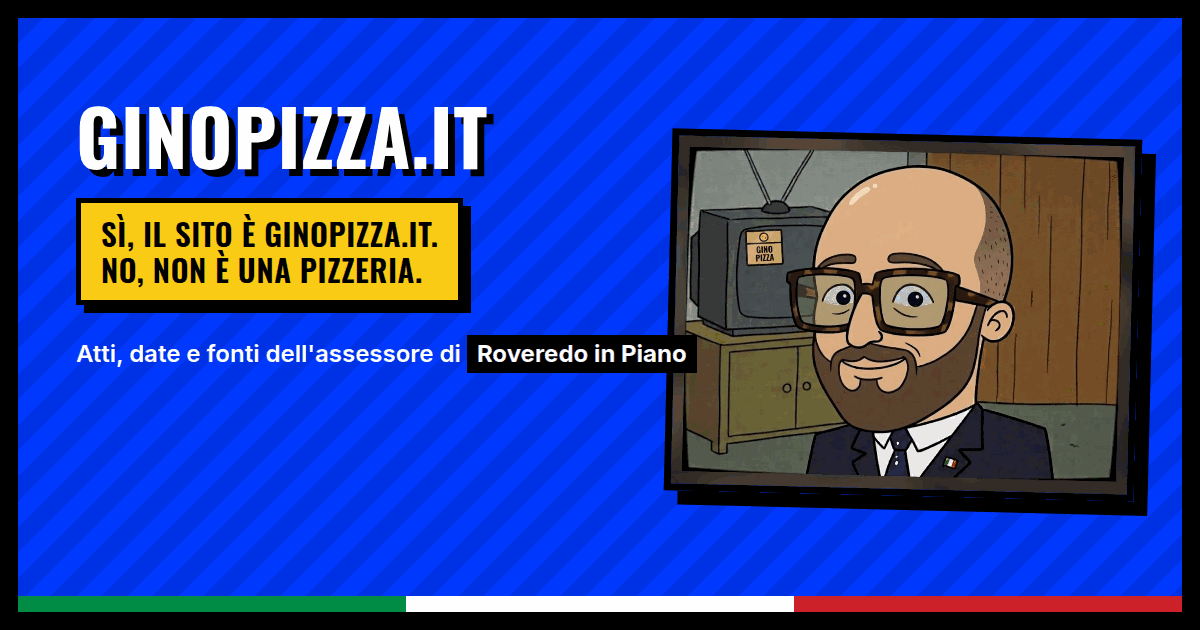
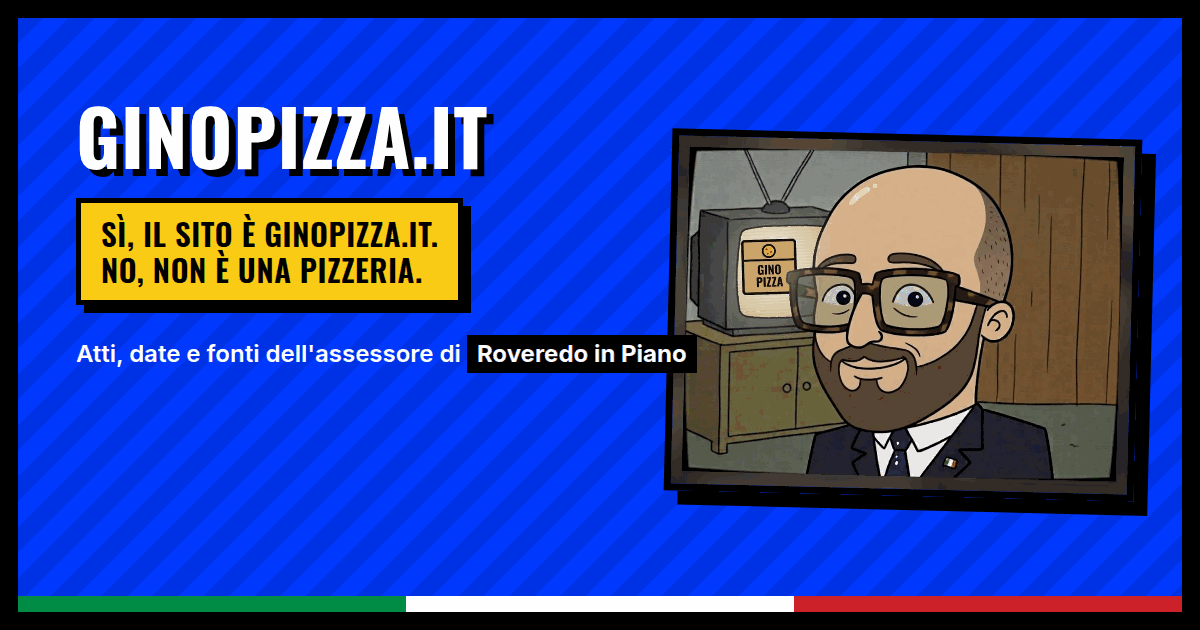
Accende davvero il televisore e ingrandisce la scatola
La scatola era piccola e messa in un angolo dello schermo spento. Ora lo
schermo è acceso e la scatola sta al centro del vetro, larga tre quarti
dello schermo invece di poco più di un terzo.

Il vetro viene riconosciuto con un riempimento che parte da dentro e si
ferma sul tratto nero: testa e occhiali, che stanno davanti, restano fuori
dalla maschera, quindi la luce non ci finisce sopra e la scatola, dove
passa la testa, sparisce dietro invece di stamparcisi sopra. Sul vetro
acceso ci sono le righe del tubo catodico e il riflesso obliquo, e lo
schermo butta un alone caldo su quello che ha intorno.

Le due cose che costruiscono l'immagine entrano nel repository:
`scatola.svg` disegna la scatola, `accendi.py` accende il televisore.

Claude-Session: https://claude.ai/code/session_01JMbSEuxVZNQcryUKyYKwZ2

Changed region(s): [[0.5858, 0.3317, 0.7092, 0.5429]]

diff --git a/index.html b/index.html
@@ -80,7 +80,7 @@ location.replace('https://'+location.host+location.pathname+location.search+loca
         <p>Qui non si sforna niente. Si firmano atti, si fissano date e si risponde di quello che si &egrave;
            fatto. La pizza la fanno meglio in paese: qui si fa il resto.</p>
       </div>
-      <img class="ritratto" src="ritratto.jpg?v=7fe04ae5" width="900" height="687"
+      <img class="ritratto" src="ritratto.jpg?v=1edf608f" width="900" height="687"
            alt="Ritratto a fumetto di Guido Costalonga: testa pelata, barba, occhiali dalla montatura spessa, giacca blu con la coccarda tricolore. Alle spalle un televisore a tubo catodico con le antenne, che manda in onda una scatola di pizza con scritto GinoPizza, un mobiletto e una parete di legno.">
     </div>
 

diff --git a/accendi.py b/accendi.py
@@ -1,0 +1,98 @@
+# -*- coding: utf-8 -*-
+"""Accende lo schermo del televisore e ci mette dentro la scatola di GinoPizza.
+
+Il vetro dello schermo viene riconosciuto con un riempimento che parte da
+dentro e si ferma sul tratto nero: così testa e occhiali, che stanno davanti,
+restano fuori dalla maschera e la luce non ci finisce sopra.
+"""
+import numpy as np
+from collections import deque
+from PIL import Image, ImageFilter
+
+SEME = (320, 250)        # un punto qualsiasi dentro al vetro (riga, colonna)
+SOGLIA_TRATTO = 45       # sotto questa luce si è sul contorno nero
+LUCE = 0.93              # quanto la luce copre il grigio dello schermo spento
+ALONE = 0.50             # quanto lo schermo illumina quello che ha intorno
+SFOCATURA = 55           # quanto è morbido l'alone
+
+
+def vetro(a):
+    lum = 0.2126 * a[:, :, 0] + 0.7152 * a[:, :, 1] + 0.0722 * a[:, :, 2]
+    h, w = lum.shape
+    scuro = lum < SOGLIA_TRATTO
+    dentro = np.zeros((h, w), bool)
+    coda = deque([SEME]); dentro[SEME] = True
+    while coda:
+        y, x = coda.popleft()
+        for dy, dx in ((1, 0), (-1, 0), (0, 1), (0, -1)):
+            ny, nx = y + dy, x + dx
+            if 0 <= ny < h and 0 <= nx < w and not dentro[ny, nx] and not scuro[ny, nx]:
+                dentro[ny, nx] = True
+                coda.append((ny, nx))
+    return dentro
+
+
+def accendi(entrata, scatola_png, uscita):
+    base = Image.open(entrata).convert("RGB")
+    a = np.asarray(base).astype(np.float64)
+    h, w, _ = a.shape
+    m = vetro(a)
+    ys, xs = np.where(m)
+    cx, cy = xs.mean(), ys.mean()
+
+    # 1. La luce dello schermo: più chiara al centro, più calda ai bordi.
+    yy, xx = np.mgrid[0:h, 0:w]
+    raggio = max(xs.max() - xs.min(), ys.max() - ys.min()) / 1.35
+    d = np.clip(np.sqrt(((xx - cx) ** 2 + (yy - cy) ** 2)) / raggio, 0, 1)[:, :, None]
+    centro = np.array([255, 253, 244], float)
+    orlo = np.array([214, 188, 132], float)
+    luce = centro * (1 - d) + orlo * d
+
+    # 2. Le righe orizzontali del tubo catodico, appena accennate.
+    righe = (np.arange(h) % 4 < 1).astype(float)[:, None, None] * 14
+    luce = np.clip(luce - righe, 0, 255)
+
+    fuori = a.copy()
+    mm = m[:, :, None]
+    fuori = np.where(mm, a * (1 - LUCE) + luce * LUCE, fuori)
+
+    # 3. Il riflesso obliquo sul vetro.
+    diag = np.clip((xx * 0.55 + yy * 0.8) / (w * 0.42), 0, 1)
+    vel = np.clip(0.40 * (1 - diag), 0, 1)[:, :, None]
+    fuori = np.where(mm, fuori + (255 - fuori) * vel, fuori)
+
+    # 4. L'alone che lo schermo acceso butta fuori dal vetro.
+    sfocata = np.asarray(Image.fromarray((m * 255).astype(np.uint8), "L")
+                         .filter(ImageFilter.GaussianBlur(SFOCATURA))).astype(float) / 255.0
+    sfocata = (sfocata * ALONE)[:, :, None]
+    calda = np.array([255, 244, 210], float)
+    fuori = fuori + (calda - fuori) * np.clip(sfocata - (mm * ALONE), 0, 1)
+
+    im = Image.fromarray(np.clip(fuori, 0, 255).astype(np.uint8), "RGB").convert("RGBA")
+
+    # 5. La scatola, centrata sul vetro e ritagliata come il vetro: dove passa
+    # la testa sparisce dietro, invece di stamparcisi sopra.
+    sc = Image.open(scatola_png).convert("RGBA")
+    # Grande quanto lo consente il vetro: la testa taglia la parte destra
+    # dello schermo, quindi la scatola si appoggia al bordo sinistro e la
+    # scritta resta tutta nella parte che si vede.
+    lato = int((xs.max() - xs.min()) * 0.74)
+    sc = sc.resize((lato, lato), Image.LANCZOS)
+    px = int(xs.min()) + 2
+    py = int(cy - lato / 2)
+    strato = Image.new("RGBA", im.size, (0, 0, 0, 0))
+    strato.paste(sc, (px, py), sc)
+    alfa = np.asarray(strato)[:, :, 3].astype(float) / 255.0
+    alfa = alfa * m
+    strato = Image.merge("RGBA", (*strato.split()[:3],
+                                  Image.fromarray((alfa * 255).astype(np.uint8), "L")))
+    im.alpha_composite(strato)
+
+    im.convert("RGB").save(uscita, quality=95)
+    print("vetro %d px, centro (%d,%d), scatola %d px -> %s"
+          % (m.sum(), cx, cy, lato, uscita))
+
+
+if __name__ == "__main__":
+    import sys
+    accendi(sys.argv[1], sys.argv[2], sys.argv[3])

diff --git a/LEGGIMI.md b/LEGGIMI.md
@@ -33,8 +33,8 @@ Ogni scheda ha un indirizzo suo, così si può condividere da sola.
 | `contatti.html` | Recapiti del municipio e della Polizia Locale, appuntamenti |
 
 Più `stile.css`, `sito.js`, `sigillo.svg`, `ritratto.jpg`, `anteprima.png`,
-`inter.woff2`, `oswald.woff2`, `costruisci.py` e i file di servizio `CNAME`,
-`robots.txt`, `sitemap.xml`, `.nojekyll`.
+`inter.woff2`, `oswald.woff2`, `costruisci.py`, `scatola.svg`, `accendi.py` e i
+file di servizio `CNAME`, `robots.txt`, `sitemap.xml`, `.nojekyll`.
 
 I due caratteri stanno nel repository e non su un sito di terzi: aprendo una
 pagina il navigatore non contatta nessun indirizzo fuori da ginopizza.it, e di
@@ -44,9 +44,19 @@ License 1.1.
 
 `ritratto.jpg` è il disegno intero, con il televisore e il mobile alle spalle,
 in apertura della prima pagina: sta dentro una cornice nera spessa con l'ombra
-dura, come tutti gli altri riquadri del sito. Sul vetro del televisore c'è una
-scatola di pizza con il nome GinoPizza: è disegnata sopra al ritratto e cotta
-dentro l'immagine, non è un pezzo della pagina. `anteprima.png` è la scheda
+dura, come tutti gli altri riquadri del sito. Il televisore alle spalle è acceso e
+manda in onda una scatola di pizza con il nome GinoPizza: la luce e la scatola
+sono cotte dentro l'immagine, non sono pezzi della pagina.
+
+Le due cose che le costruiscono stanno nel repository. `scatola.svg` disegna
+la scatola da sola, su fondo trasparente, e serve solo perché il carattere
+Oswald lo sa comporre il navigatore. `accendi.py` fa il resto: riconosce il
+vetro dello schermo con un riempimento che parte da dentro e si ferma sul
+tratto nero, così testa e occhiali, che stanno davanti, restano fuori dalla
+maschera; poi accende il vetro, ci mette le righe del tubo catodico, il
+riflesso obliquo e l'alone che lo schermo butta su quello che ha intorno, e
+infine appoggia la scatola dentro alla maschera, in modo che dove passa la
+testa sparisca dietro invece di stamparcisi sopra. `anteprima.png` è la scheda
 1200 per 630 che compare quando un collegamento del sito viene condiviso.
 
 Le schede figlie hanno le briciole di navigazione in alto (Home, indice, scheda)
